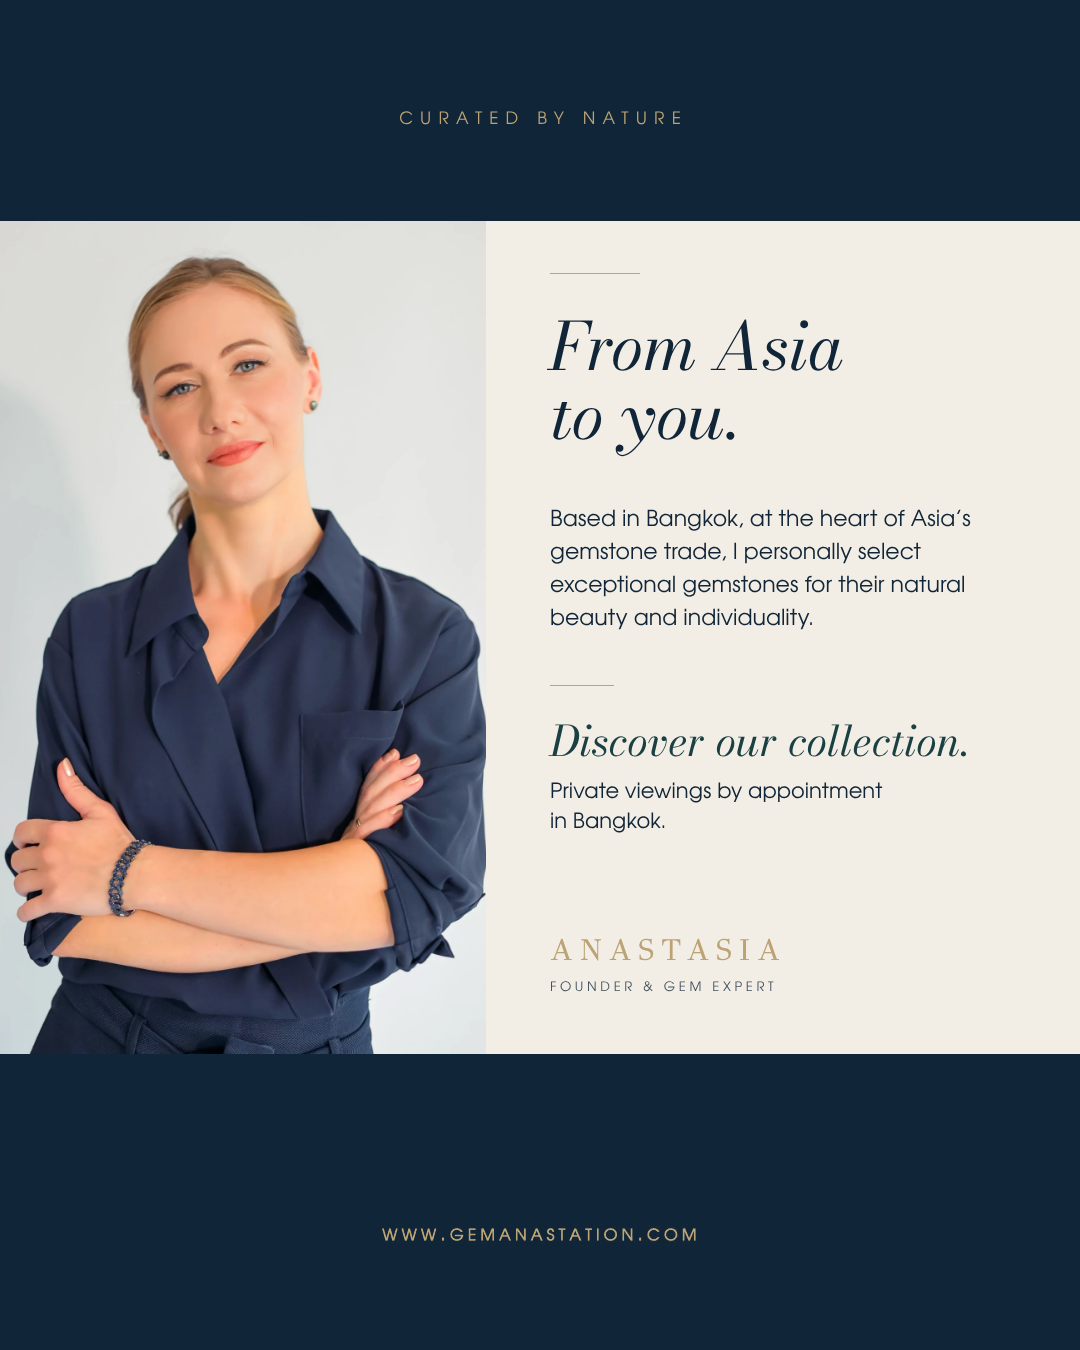
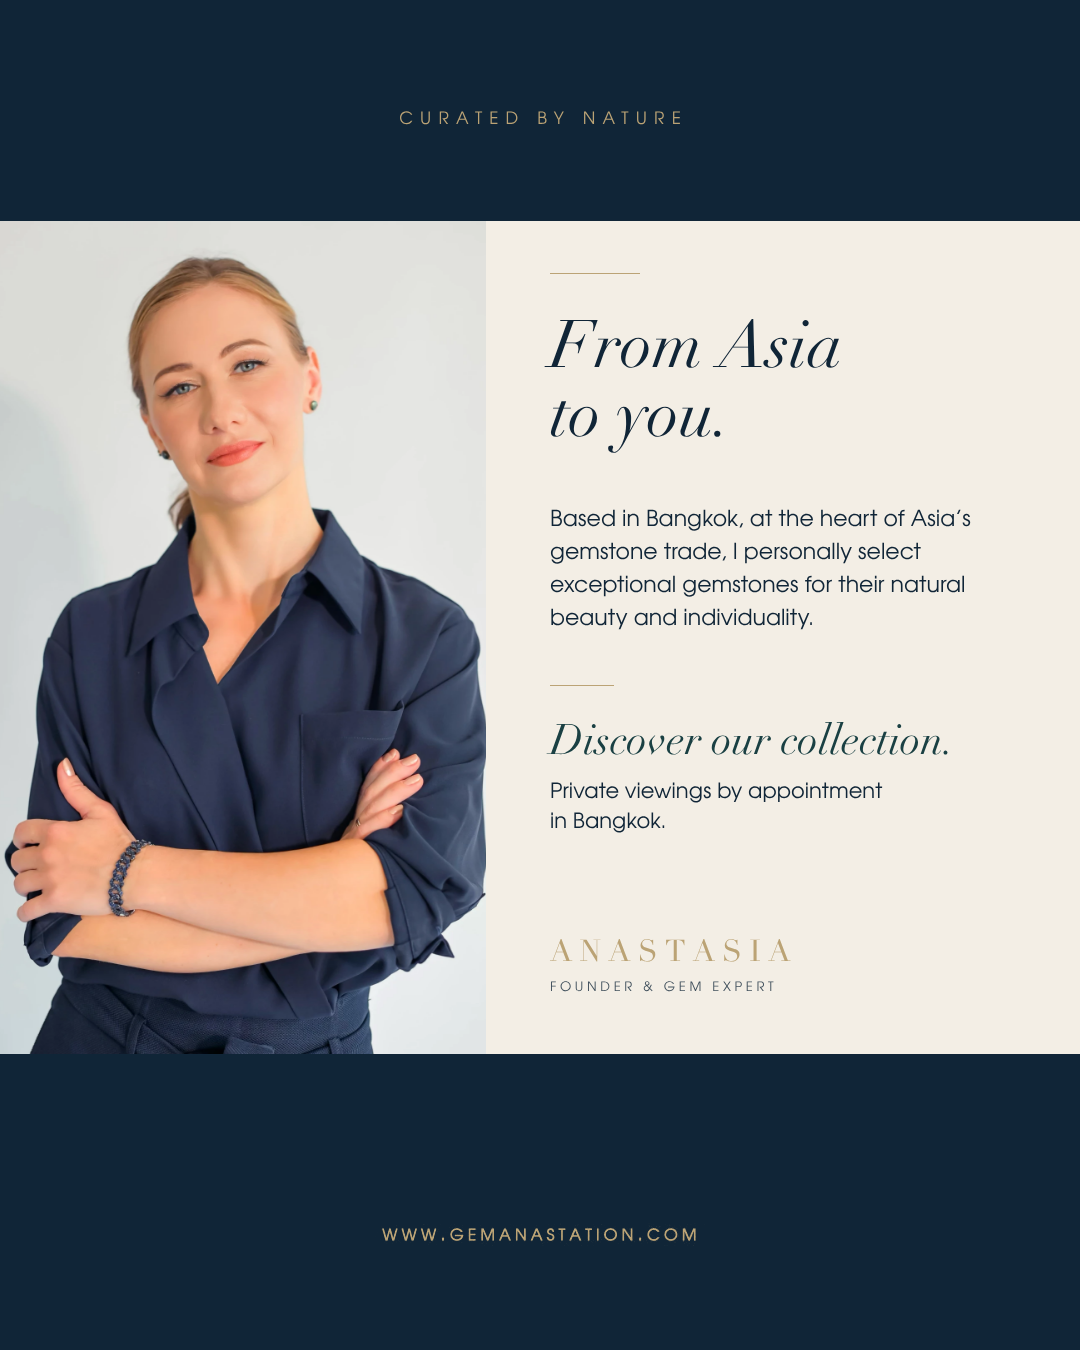
Gems of Asia and Cultural Choice: headings in Apple Didot
Upright, italic and cover (bold) headings now use the client-supplied
Apple Didot; the font files stay local and git-ignored (licensed).

Claude-Session: https://claude.ai/code/session_01DPJpbdE4xE8Jg3JGMEEyZy

diff --git a/gem-anastation-reels/covers/covers.html b/gem-anastation-reels/covers/covers.html
@@ -5,14 +5,14 @@
      Export: NODE_PATH=$(npm root -g) node tools/export.mjs -->
 <html lang="en"><head><meta charset="utf-8"><title>Zine Covers</title>
 <style>
-  @font-face { font-family: "Didot Cover"; src: url(../founder/fonts/GFSDidot-Regular.ttf); }   /* GFS Didot (regular only) */
+  @font-face { font-family: "Didot Cover"; src: url(../brand/fonts_licensed/Didot-Bold.ttf); font-weight: 700; }   /* Apple Didot Bold (client-supplied) */
   body { margin: 0; background: #d9d6d0; display: flex; gap: 40px; padding: 40px; width: max-content; }
   .cover { position: relative; width: 1080px; height: 1350px; overflow: hidden; }
   .cover > img.photo { display: block; width: 1080px; height: 1350px; }
   .title { position: absolute; left: 0; width: 1080px; text-align: center; white-space: nowrap;
-    top: 185px;                       /* → cap top at y = 200 */
-    font-family: "Didot Cover"; font-weight: 400; font-size: 114px; line-height: 1;
-    letter-spacing: .035em; text-indent: .035em;   /* indent balances the trailing space: optical centre */
+    top: 189px;                       /* → cap top at y = 200 */
+    font-family: "Didot Cover"; font-weight: 700; font-size: 106px; line-height: 1;
+    letter-spacing: .025em; text-indent: .025em;   /* indent balances the trailing space: optical centre */
     color: #102537; }
   .url { position: absolute; left: 375px; top: 1223px; width: 351px; height: 23px; }
 </style></head>

diff --git a/gem-anastation-reels/gems_of_asia/slide03.html b/gem-anastation-reels/gems_of_asia/slide03.html
@@ -2,7 +2,11 @@
 <!-- Generated by tools/build_region.mjs — edit the script, not this file. -->
 <html lang="en"><head><meta charset="utf-8"><title>Gems of Asia 03</title>
 <link rel="stylesheet" href="../founder/founder.css">
-<style>@font-face { font-family: "GFS Didot"; src: url(../founder/fonts/GFSDidot-Regular.ttf); }</style>
+<style>
+  /* Apple Didot (client-supplied, local only: ../brand/fonts_licensed, git-ignored) */
+  @font-face { font-family: "GFS Didot"; src: url(../brand/fonts_licensed/Didot-Regular.ttf); }
+  @font-face { font-family: "Didot Italic"; font-style: italic; src: url(../brand/fonts_licensed/Didot-Italic.ttf); }
+</style>
 <style>
   body { background: #d9d6d0; }
   .slide { width: 1080px; height: 1350px; background: #F3EEE5; position: relative; overflow: hidden; }

diff --git a/gem-anastation-reels/gems_of_asia/slide04.html b/gem-anastation-reels/gems_of_asia/slide04.html
@@ -2,7 +2,11 @@
 <!-- Generated by tools/build_region.mjs — edit the script, not this file. -->
 <html lang="en"><head><meta charset="utf-8"><title>Gems of Asia 04</title>
 <link rel="stylesheet" href="../founder/founder.css">
-<style>@font-face { font-family: "GFS Didot"; src: url(../founder/fonts/GFSDidot-Regular.ttf); }</style>
+<style>
+  /* Apple Didot (client-supplied, local only: ../brand/fonts_licensed, git-ignored) */
+  @font-face { font-family: "GFS Didot"; src: url(../brand/fonts_licensed/Didot-Regular.ttf); }
+  @font-face { font-family: "Didot Italic"; font-style: italic; src: url(../brand/fonts_licensed/Didot-Italic.ttf); }
+</style>
 <style>
   body { background: #d9d6d0; }
   .slide { width: 1080px; height: 1350px; background: #F3EEE5; position: relative; overflow: hidden; }

diff --git a/gem-anastation-reels/gems_of_asia/slide05.html b/gem-anastation-reels/gems_of_asia/slide05.html
@@ -2,7 +2,11 @@
 <!-- Generated by tools/build_region.mjs — edit the script, not this file. -->
 <html lang="en"><head><meta charset="utf-8"><title>Gems of Asia 05</title>
 <link rel="stylesheet" href="../founder/founder.css">
-<style>@font-face { font-family: "GFS Didot"; src: url(../founder/fonts/GFSDidot-Regular.ttf); }</style>
+<style>
+  /* Apple Didot (client-supplied, local only: ../brand/fonts_licensed, git-ignored) */
+  @font-face { font-family: "GFS Didot"; src: url(../brand/fonts_licensed/Didot-Regular.ttf); }
+  @font-face { font-family: "Didot Italic"; font-style: italic; src: url(../brand/fonts_licensed/Didot-Italic.ttf); }
+</style>
 <style>
   body { background: #d9d6d0; }
   .slide { width: 1080px; height: 1350px; background: #F3EEE5; position: relative; overflow: hidden; }

diff --git a/gem-anastation-reels/gems_of_asia/slide06.html b/gem-anastation-reels/gems_of_asia/slide06.html
@@ -2,7 +2,11 @@
 <!-- Generated by tools/build_region.mjs — edit the script, not this file. -->
 <html lang="en"><head><meta charset="utf-8"><title>Gems of Asia 06</title>
 <link rel="stylesheet" href="../founder/founder.css">
-<style>@font-face { font-family: "GFS Didot"; src: url(../founder/fonts/GFSDidot-Regular.ttf); }</style>
+<style>
+  /* Apple Didot (client-supplied, local only: ../brand/fonts_licensed, git-ignored) */
+  @font-face { font-family: "GFS Didot"; src: url(../brand/fonts_licensed/Didot-Regular.ttf); }
+  @font-face { font-family: "Didot Italic"; font-style: italic; src: url(../brand/fonts_licensed/Didot-Italic.ttf); }
+</style>
 <style>
   body { background: #d9d6d0; }
   .slide { width: 1080px; height: 1350px; background: #F3EEE5; position: relative; overflow: hidden; }

diff --git a/gem-anastation-reels/gems_of_asia/slide02.html b/gem-anastation-reels/gems_of_asia/slide02.html
@@ -2,7 +2,11 @@
 <!-- Generated by tools/build.mjs — edit the script, not this file. -->
 <html lang="en"><head><meta charset="utf-8"><title>Gemstone Map</title>
 <link rel="stylesheet" href="../founder/founder.css">
-<style>@font-face { font-family: "GFS Didot"; src: url(../founder/fonts/GFSDidot-Regular.ttf); }</style>
+<style>
+  /* Apple Didot (client-supplied, local only: ../brand/fonts_licensed, git-ignored) */
+  @font-face { font-family: "GFS Didot"; src: url(../brand/fonts_licensed/Didot-Regular.ttf); }
+  @font-face { font-family: "Didot Italic"; font-style: italic; src: url(../brand/fonts_licensed/Didot-Italic.ttf); }
+</style>
 <style>
   body { background: #d9d6d0; }
   .slide { width: 1080px; height: 1350px; background: #102537; position: relative; overflow: hidden; }

diff --git a/gem-anastation-reels/founders_note/note_gems-of-asia.html b/gem-anastation-reels/founders_note/note_gems-of-asia.html
@@ -2,7 +2,11 @@
 <!-- Generated by tools/build.mjs (gems-of-asia) — edit NOTES there, not this file. -->
 <html lang="en"><head><meta charset="utf-8"><title>Founder's Note</title>
 <link rel="stylesheet" href="../founder/founder.css">
-<style>@font-face { font-family: "GFS Didot"; src: url(../founder/fonts/GFSDidot-Regular.ttf); }</style>
+<style>
+  /* Apple Didot (client-supplied, local only: ../brand/fonts_licensed, git-ignored) */
+  @font-face { font-family: "GFS Didot"; src: url(../brand/fonts_licensed/Didot-Regular.ttf); }
+  @font-face { font-family: "Didot Italic"; font-style: italic; src: url(../brand/fonts_licensed/Didot-Italic.ttf); }
+</style>
 <style>
   :root { --navy: #102537; --teal: #1A4043; --gold2: #BBA375; }
   body { background: #d9d6d0; }

diff --git a/gem-anastation-reels/cultural_choice/slides.html b/gem-anastation-reels/cultural_choice/slides.html
@@ -13,7 +13,7 @@
     color: rgba(236,232,224,.66); }
   /* Headlines: GFS Didot (a Didot revival; the licensed Linotype Didot can
      replace it via this @font-face), regular, gold #BBA375 */
-  @font-face { font-family: "GFS Didot"; src: url(../founder/fonts/GFSDidot-Regular.ttf); }
+  @font-face { font-family: "GFS Didot"; src: url(../brand/fonts_licensed/Didot-Regular.ttf); }   /* Apple Didot (client-supplied) */
   h1 { margin: 22px 0 0; font-family: "GFS Didot"; font-weight: 400; font-size: 46px; line-height: 1.1;
     letter-spacing: .03em; text-transform: uppercase; color: #BBA375; }
   p { margin: 22px 0 0; font-family: "AvantGarde"; font-size: 21px; line-height: 1.55; color: rgba(240,237,231,.86); }

diff --git a/gem-anastation-reels/brand/BRAND.md b/gem-anastation-reels/brand/BRAND.md
@@ -86,3 +86,10 @@ or sketches; never generate objects.
 ## Where the SMM work lives
 `../` — reel and Stories tools (`tools/`), outputs (`output/`);
 `../founder/` — Founder carousel and Stories (HTML/CSS + export script).
+
+## Didot (licensed)
+Headings use Apple Didot (Regular / Italic / Bold), supplied by the client.
+The font files live in `brand/fonts_licensed/` locally and are git-ignored —
+they are licensed with the client's Mac and must not be published. To rebuild
+in a fresh session, extract them again from the client's `Didot.ttc`
+(`fontTools.ttLib.TTCollection`) into that folder.
